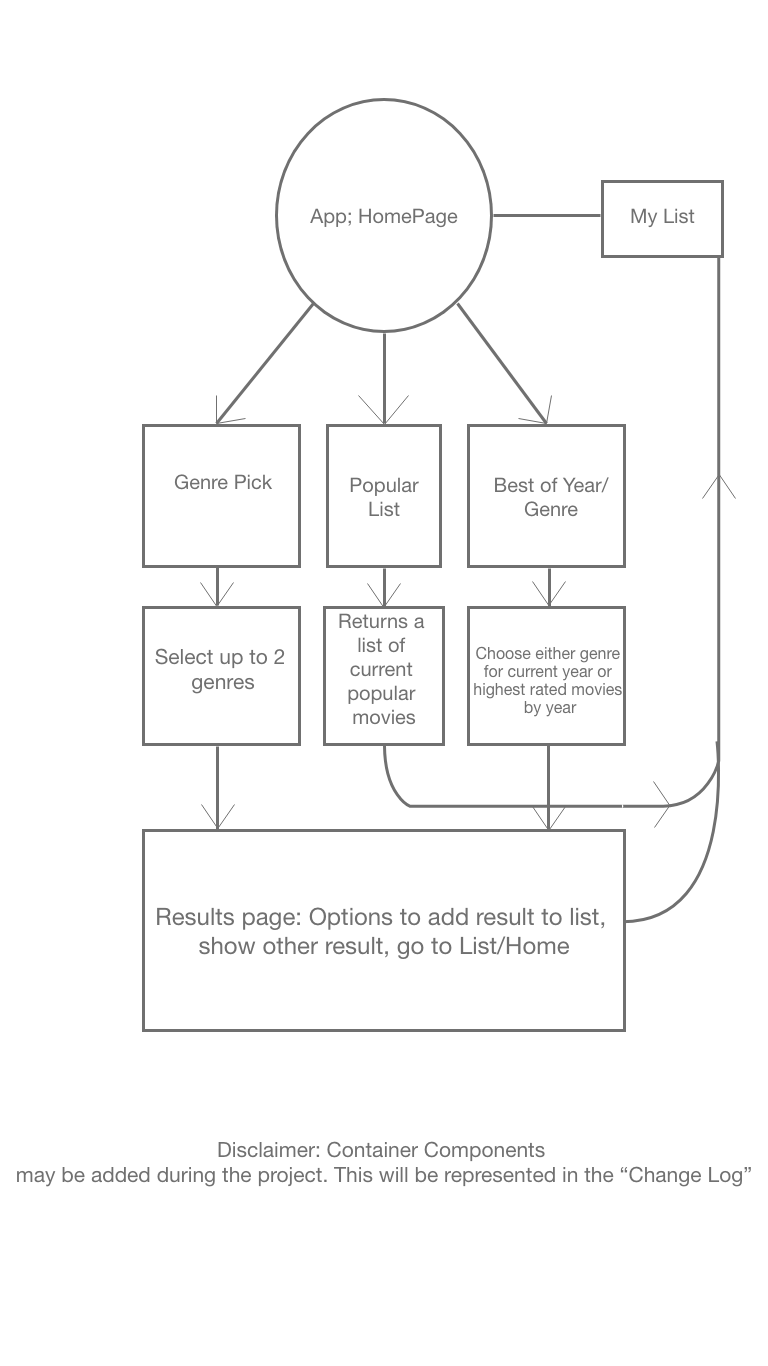
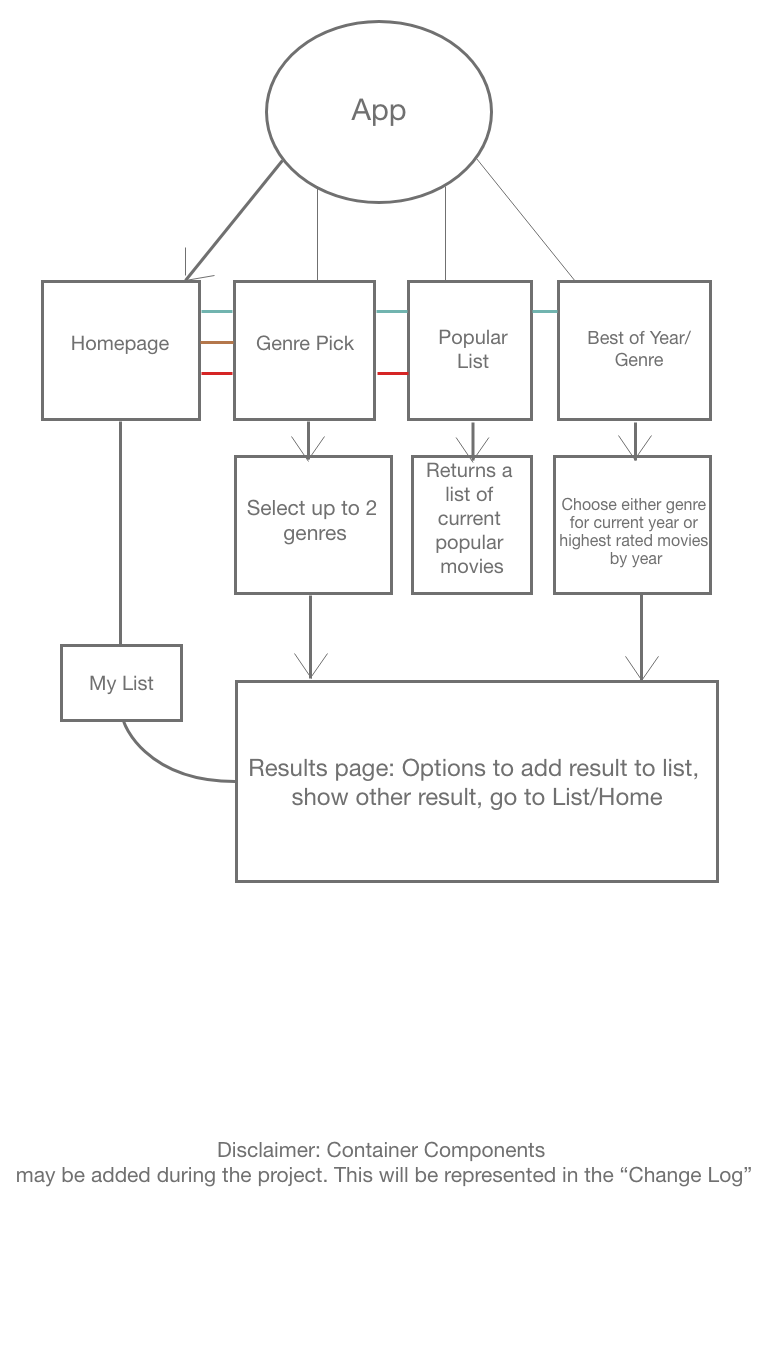
Touched up README.md

diff --git a/README.md b/README.md
@@ -22,7 +22,7 @@ Desktop/Tablet Wireframes:
 ![Imgur](https://i.imgur.com/qKlNDrd.png)
 
 Mobile Wireframes:
-![a relative link](Mobile-wireframes.md)
+![](Mobile-wireframes.md)
 
 
 ## API and Data Sample
@@ -54,7 +54,7 @@ A sample from the API: https://api.themoviedb.org/3/movie/550?{API_KEY_HERE}
 This project will also use Airtable to store movies the user wants to save for later
 
 ## Component Hierarchy
-![Imgur](https://i.imgur.com/EYCoSkD.png)
+![Imgur](https://i.imgur.com/07bAawS.png)
 
 ## MVP/PostMVP
 
@@ -108,3 +108,7 @@ This project will also use Airtable to store movies the user wants to save for l
 ## Change Log:
 
     Any changes to the project will be reflected here
+
+## Issue Ticket Form:
+
+    https://docs.google.com/forms/d/e/1FAIpQLSfkrM82Kljv_Wxx_716zv2WTHb1qr_J8htnMoBOiIsP4MN02w/viewform
